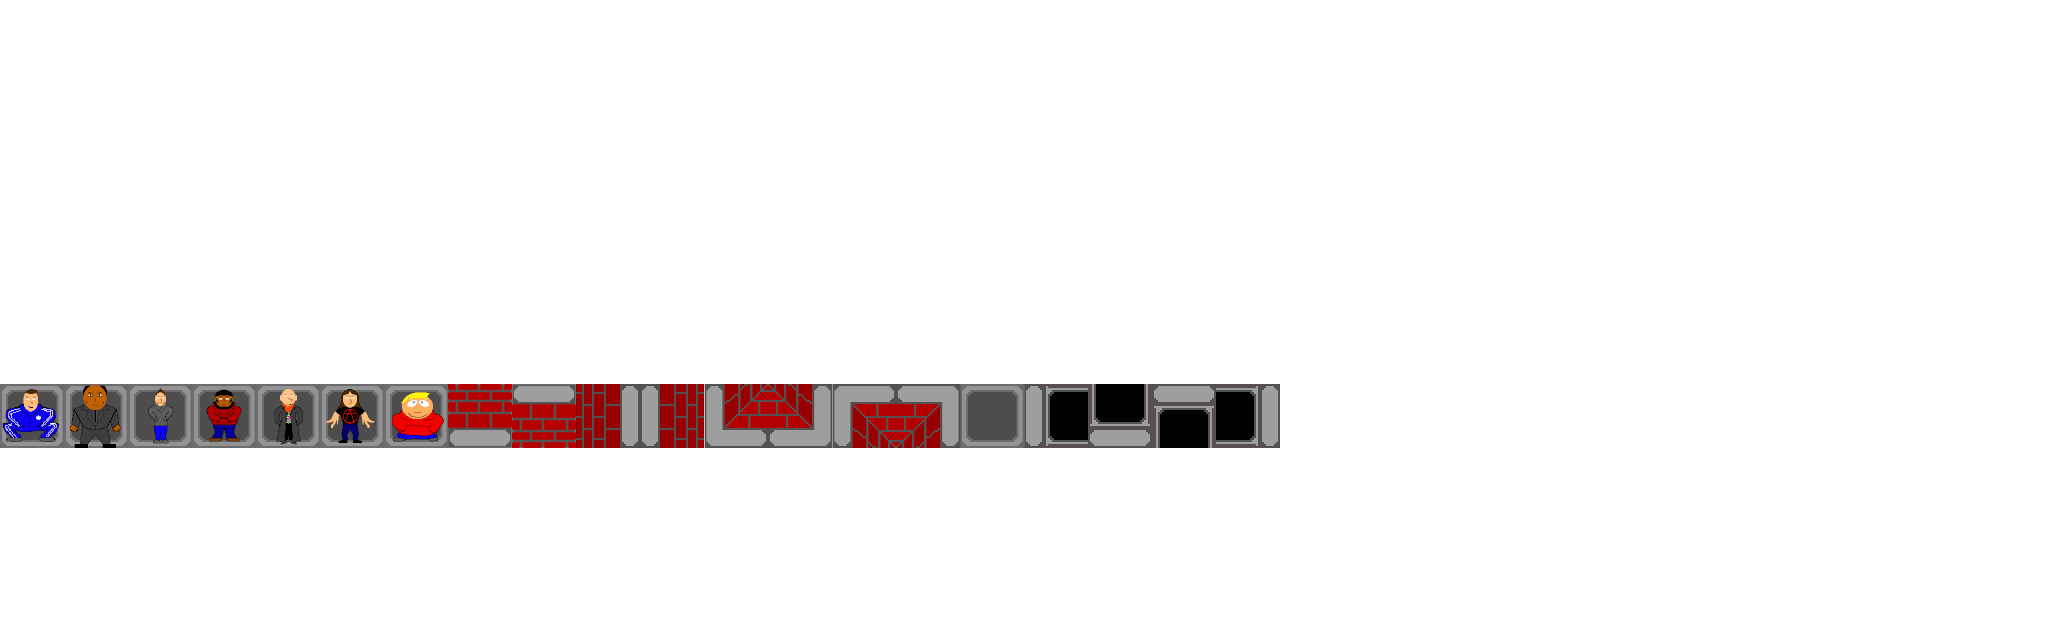
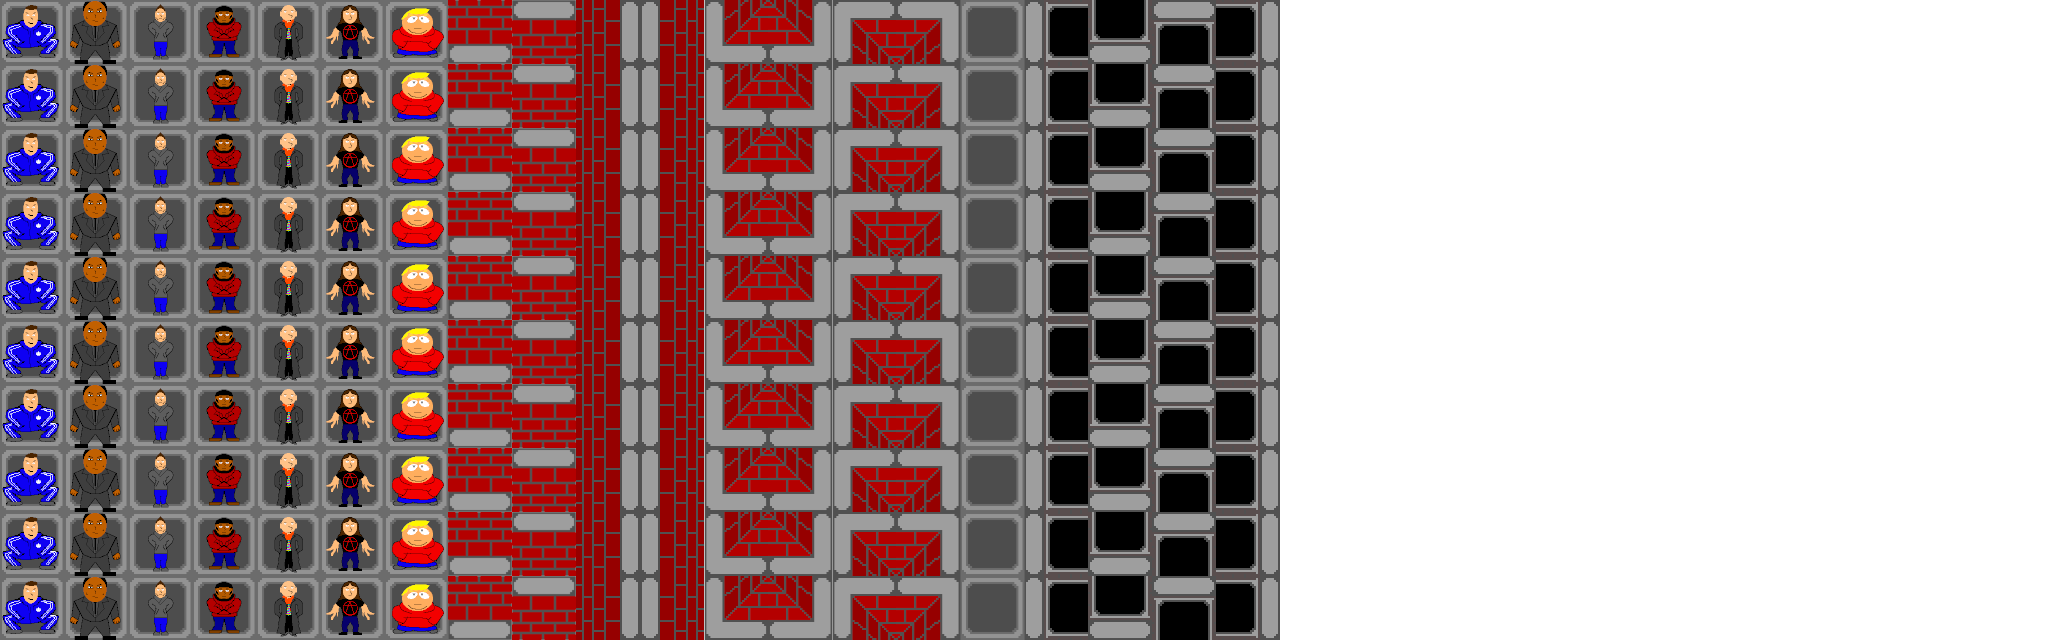
resized

diff --git a/engine.py b/engine.py
@@ -39,34 +39,34 @@ def render_all(mapToUse, con):
     for y in range(GAME_HEIGHT):
         for x in range(GAME_WIDTH):
             if(mapToUse.map[x][y].charToken != ""):
-                newCharCode = 0
+                newCharCode = 7
                 # print(mapToUse.map[x][y].charToken)
                 if(mapToUse.map[x][y].charToken == "S"):
-                    newCharCode = 263
+                    newCharCode += 1
                 if(mapToUse.map[x][y].charToken == "N"):
-                    newCharCode = 264
+                    newCharCode += 2
                 if(mapToUse.map[x][y].charToken == "E"):
-                    newCharCode = 265
+                    newCharCode += 3
                 if(mapToUse.map[x][y].charToken == "W"):
-                    newCharCode = 266
+                    newCharCode += 4
                 if(mapToUse.map[x][y].charToken == "<"):
-                    newCharCode = 267
+                    newCharCode += 5
                 if(mapToUse.map[x][y].charToken == ">"):
-                    newCharCode = 268
+                    newCharCode += 6
                 if(mapToUse.map[x][y].charToken == "/"):
-                    newCharCode = 269
+                    newCharCode += 7
                 if(mapToUse.map[x][y].charToken == "\\"):
-                    newCharCode = 270
+                    newCharCode += 8
                 if(mapToUse.map[x][y].charToken == "."):
-                    newCharCode = 271
+                    newCharCode += 9
                 if(mapToUse.map[x][y].charToken == "w"):
-                    newCharCode = 272
+                    newCharCode += 10
                 if(mapToUse.map[x][y].charToken == "s"):
-                    newCharCode = 273
+                    newCharCode += 11
                 if(mapToUse.map[x][y].charToken == "n"):
-                    newCharCode = 274
+                    newCharCode += 12
                 if(mapToUse.map[x][y].charToken == "e"):
-                    newCharCode = 275
+                    newCharCode += 13
                 tcod.console_put_char_ex(con, x, y, newCharCode, tcod.white, tcod.black)
                 # else:
                 #      tcod.console_put_char(con, x, y, "#", tcod.BKGND_NONE)
@@ -77,21 +77,21 @@ def render_all(mapToUse, con):
         placeX = roomIndex.x1
         placeY = roomIndex.y1
         for i in range(0, len(roomIndex.playerList)):
-            newCharCode = 0
+            newCharCode = -1
             if(roomIndex.playerList[i].playerNum == 0):
-                newCharCode = 256
-            if(roomIndex.playerList[i].playerNum == 1):
-                newCharCode = 257
+                newCharCode += 1
             if(roomIndex.playerList[i].playerNum == 2):
-                newCharCode = 258
+                newCharCode += 3
+            if(roomIndex.playerList[i].playerNum == 2):
+                newCharCode += 4
             if(roomIndex.playerList[i].playerNum == 3):
-                newCharCode = 259
+                newCharCode += 5
             if(roomIndex.playerList[i].playerNum == 4):
-                newCharCode = 260
+                newCharCode += 6
             if(roomIndex.playerList[i].playerNum == 5):
-                newCharCode = 261
+                newCharCode += 7
             if(roomIndex.playerList[i].playerNum == 6):
-                newCharCode = 262
+                newCharCode += 8
             # print(roomIndex.playerList[i].playerNum)
             # print(roomIndex.playerList[i].name[0])
             # print(placeX+1, placeY+1)
@@ -143,7 +143,7 @@ def handle_keys(currPlayer, mapToUse):
 def load_customfont():
     print("did not crash")
     #The index of the first custom tile in the file
-    a = 256
+    a = 0
 
     #The "y" is the row index, here we load the sixth row in the font file. Increase the "6" to load any new rows from the file
     for y in range(6, 7):
@@ -155,8 +155,8 @@ def main():
     # player_y = int(screen_height / 2)
 
     # tcod.console_set_custom_font('arial10x10.png', tcod.FONT_TYPE_GREYSCALE | tcod.FONT_LAYOUT_TCOD)
-    tcod.console_set_custom_font('hontfont.png', tcod.FONT_TYPE_GREYSCALE | tcod.FONT_LAYOUT_TCOD, 32, 10)
-    # load_customfont()
+    tcod.console_set_custom_font('hontfont.png', tcod.FONT_TYPE_GRAYSCALE | tcod.FONT_LAYOUT_TCOD, 32, 10)
+    load_customfont()
     print("here")
     tcod.console_init_root(GAME_WIDTH, GAME_HEIGHT, 'tcod tutorial revised', False)
     con = tcod.console_new(GAME_WIDTH, GAME_HEIGHT)
